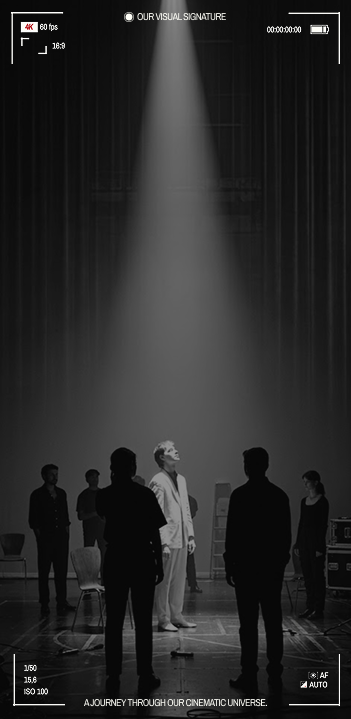
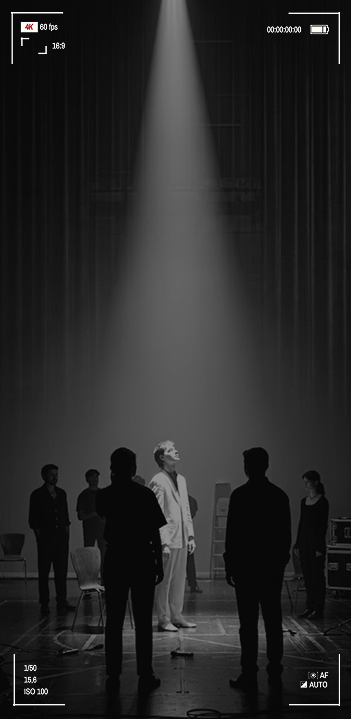
studioreel updating

diff --git a/index.html b/index.html
@@ -298,19 +298,19 @@
              style="background-image: url('Images/BG_KHome_26');"></div>
         <div class="background-slide" 
              data-desktop="Images/BG_KHome_27.png" 
-             data-mobile="Images/PH_KHome_23.png"
+             data-mobile="Images/PH_KHome_24.png"
              style="background-image: url('Images/BG_KHome_27.png');"></div>
         <div class="background-slide" 
              data-desktop="Images/BG_KHome_28.png" 
-             data-mobile="Images/PH_KHome_23.png"
+             data-mobile="Images/PH_KHome_25.png"
              style="background-image: url('Images/BG_KHome_28.png');"></div>
         <div class="background-slide" 
              data-desktop="Images/BG_KHome_29.png" 
-             data-mobile="Images/PH_KHome_23.png"
+             data-mobile="Images/PH_KHome_26.png"
              style="background-image: url('Images/BG_KHome_29.png');"></div>
         <div class="background-slide" 
              data-desktop="Images/BG_KHome_30.png" 
-             data-mobile="Images/PH_KHome_23.png"
+             data-mobile="Images/PH_KHome_27.png"
              style="background-image: url('Images/BG_KHome_30.png');"></div>
       </div>
 

diff --git a/styles.css b/styles.css
@@ -1239,8 +1239,23 @@ body.scrolled .logo-secondary {
 
 
 @media (min-width: 100px) and (max-width: 767px) {
+    .studio-reel {
+      min-height: 100vh;
+    }  
+
     .side-rectangle {
       display: none;
+    }
+
+
+    .main-reel{
+      min-height: 120vh;
+      background-image: url(Images/PH_KHome_18.png);
+      background-size: contain;
+    }
+
+    .reel-footer-text {
+      font-size: 0.8rem;
     }
 }
 
@@ -1648,6 +1663,10 @@ body.scrolled .logo-secondary {
   }
   .background-slide {
     background-size: cover;
+  }
+
+  .movement-subtitle {
+    margin-top: 10%;
   }
 }
 
